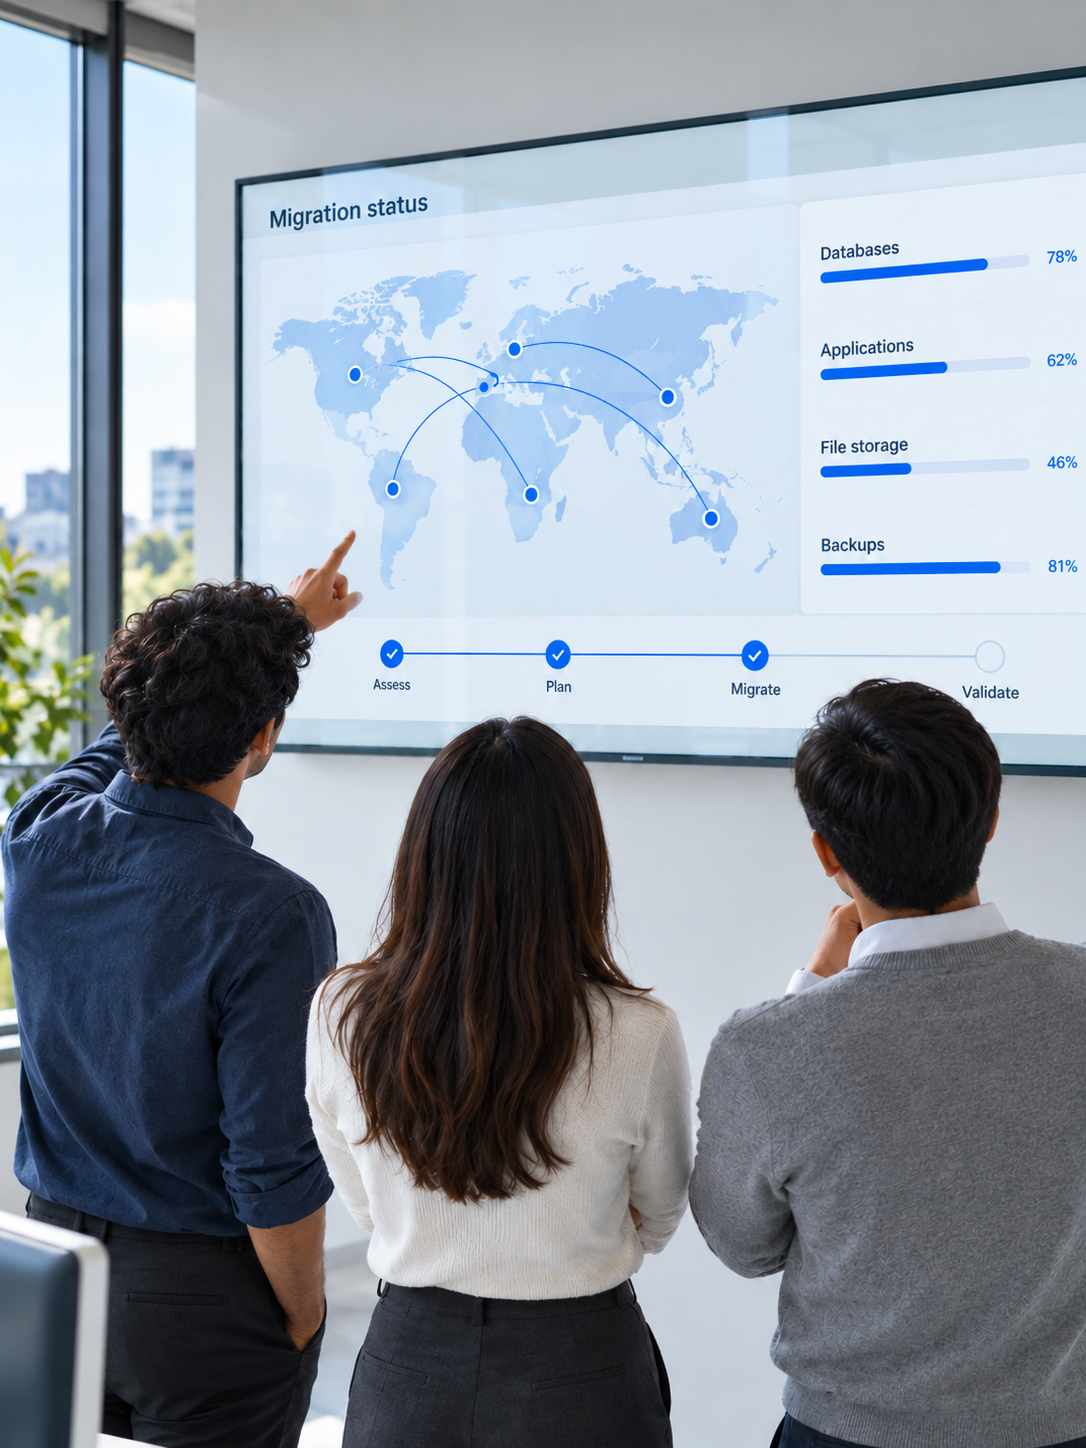
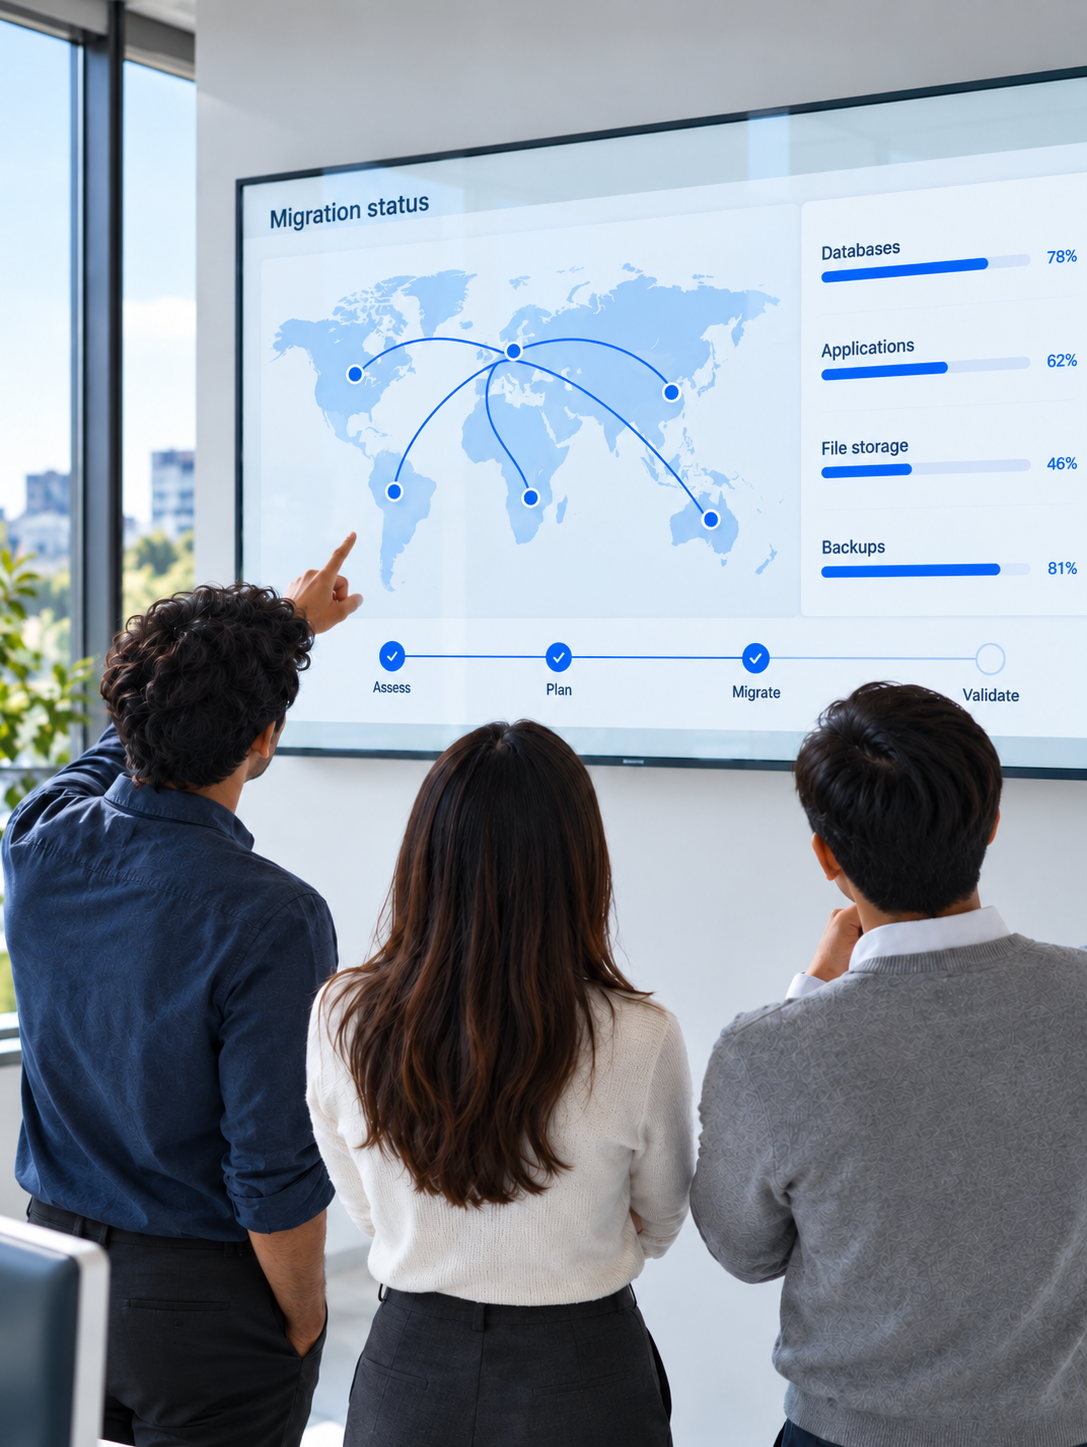
changed the sub service image

diff --git a/frontend/src/content/sub-service-hero-images.ts b/frontend/src/content/sub-service-hero-images.ts
@@ -1,6 +1,6 @@
 // Matches the existing parent-page Our Services carousel assets.
 export const subServiceHeroImages: Readonly<Record<string, { src: string; alt: string }>> = {
-  "cloud-architecture-migration": { src: "/images/services/our-services-section/cloud-migration.png", alt: "Team reviewing a cloud migration architecture diagram on a large screen." },
+  "cloud-architecture-migration": { src: "/images/services/our-services-section/cloud-migration-v2.png", alt: "Team reviewing a cloud migration architecture diagram on a large screen." },
   "devops-reliability": { src: "/images/services/our-services-section/devops-and-reliability-2.png", alt: "Developer working with code and system monitoring on two screens." },
   "cloud-cost-optimization": { src: "/images/services/our-services-section/cloud-cost-optimization.png", alt: "Laptop displaying a cloud cost dashboard with usage and spending charts." },
   "dashboards-executive-reporting": { src: "/images/services/our-services-section/dashboards-and-analytics.png", alt: "Laptop displaying an analytics dashboard with charts and KPI summaries." },

diff --git a/frontend/src/app/(marketing)/services/cloud/page.tsx b/frontend/src/app/(marketing)/services/cloud/page.tsx
@@ -80,7 +80,7 @@ export default function CloudFoundationsPage() {
             services={canonicalCloudServices.map((service, index) => ({
               name: service.title,
               href: `/services/cloud-foundations/${service.slug}`,
-              image: ["/images/services/our-services-section/cloud-migration.png", "/images/services/our-services-section/devops-and-reliability-2.png", "/images/services/our-services-section/cloud-cost-optimization.png"][index],
+              image: ["/images/services/our-services-section/cloud-migration-v2.png", "/images/services/our-services-section/devops-and-reliability-2.png", "/images/services/our-services-section/cloud-cost-optimization.png"][index],
               imageAlt: ["Team reviewing cloud migration progress on a large screen.", "Developer working with code and system monitoring on two screens.", "Laptop displaying a cloud cost dashboard with usage and spending charts."][index],
               introduction: cloudServiceIntroductions[index].summary,
               points: cloudServiceIntroductions[index].includes,

diff --git a/frontend/src/content/cloud-sub-services/pages.ts b/frontend/src/content/cloud-sub-services/pages.ts
@@ -29,7 +29,7 @@ export const cloudSubPages: Record<CloudSubPageKey, CloudSubPage> = {
       title: "Cloud migration services for your next move",
       introduction: "Our cloud migration services help you move applications and data with a clear cloud migration strategy, tested cutover steps, and an operating plan your team can use.",
       outcome: "Move with a clear plan and a tested path to production.", cta: "Discuss your cloud migration",
-      expectedImage: "/image/services/cloud-migration-hero.webp", imageAlt: "Cloud architecture and workload migration planning",
+      expectedImage: "/images/services/our-services-section/cloud-migration-v2.png", imageAlt: "Cloud architecture and workload migration planning",
     },
     signs: {
       id: "migration-signs", title: "Cloud problems often show up before you know the cause.",
